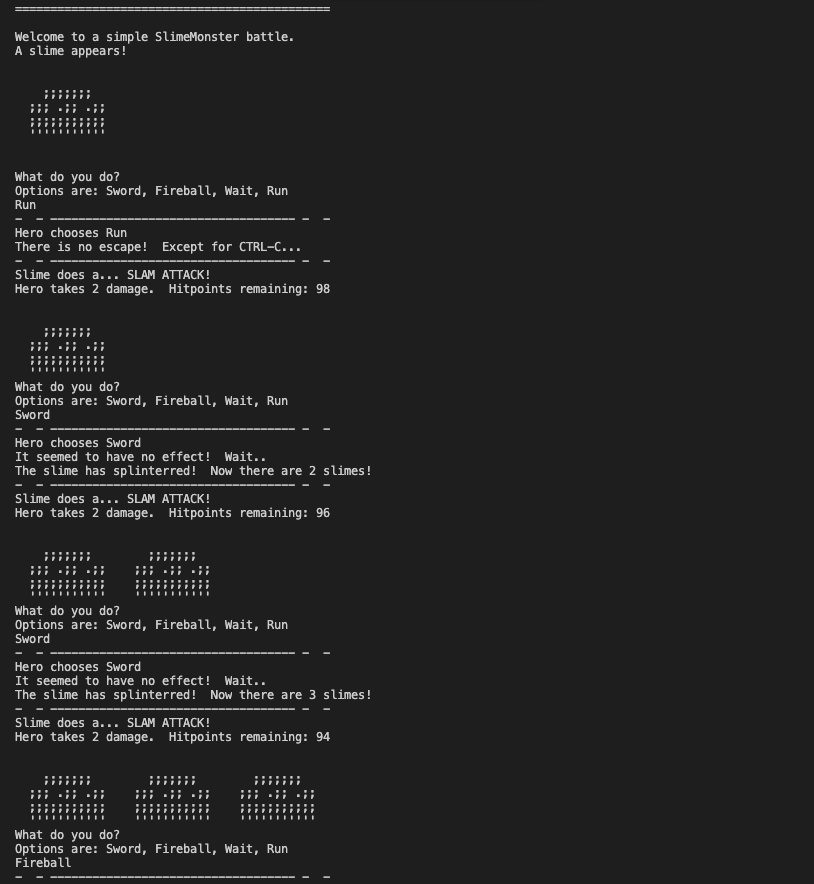
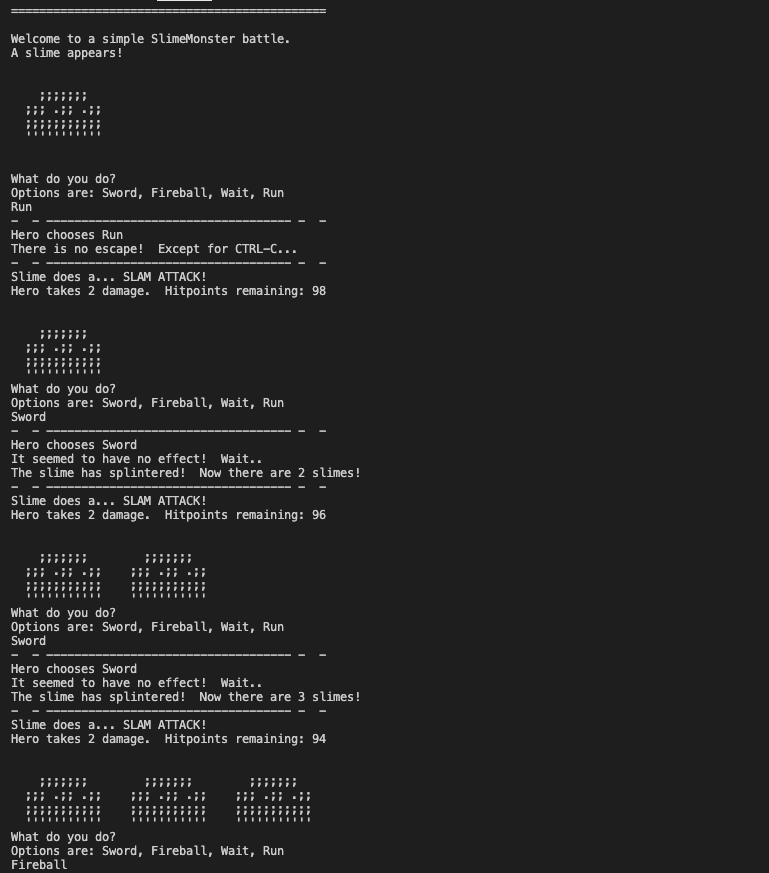
Fixed a typo :)

Changed region(s): [[0.0, 0.3711, 0.4681, 1.0], [0.0, 0.1856, 0.4369, 0.3402], [0.0, 0.0, 0.4057, 0.1546]]

diff --git a/Game/SlimeMonster.cs b/Game/SlimeMonster.cs
@@ -30,7 +30,7 @@ namespace SimpleSlimeBattle
             {
                 splinterSlimes.Push(new SlimeMonster());
                 Console.WriteLine("It seemed to have no effect!  Wait..");
-                Console.WriteLine("The slime has splinterred!  Now there are {0} slimes!", splinterSlimes.Count + 1);
+                Console.WriteLine("The slime has splintered!  Now there are {0} slimes!", splinterSlimes.Count + 1);
             }
             else if(attack.attackType == Attack.attackTypes.Fire)
             {
